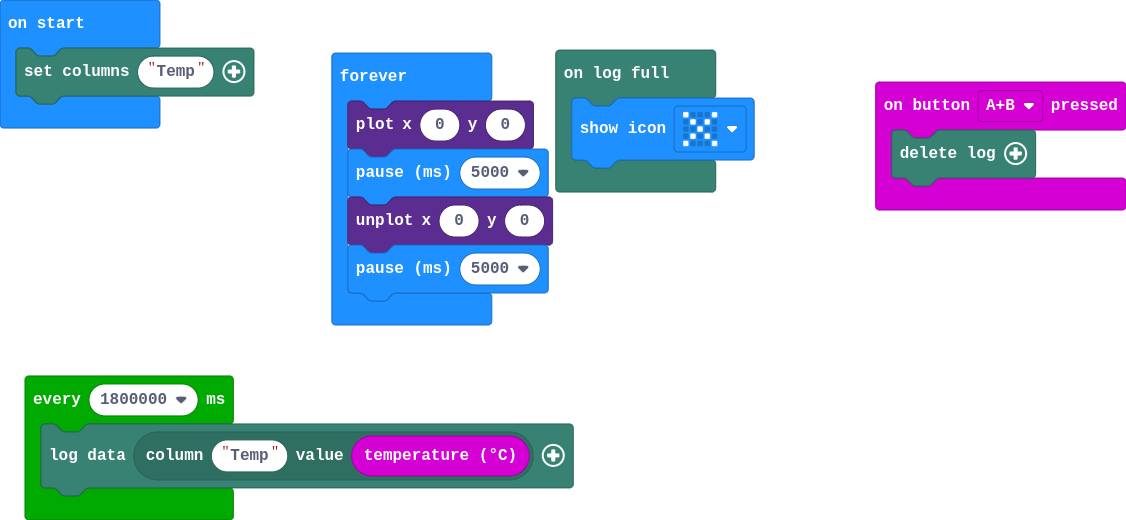
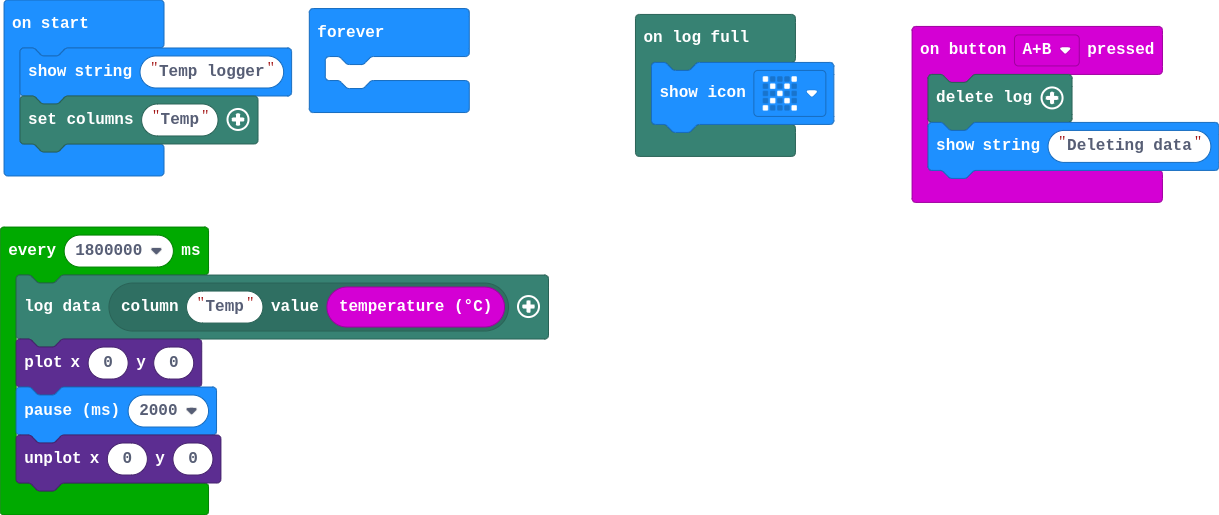
Update main.blocks, main.ts

diff --git a/main.ts b/main.ts
@@ -3,14 +3,16 @@ datalogger.onLogFull(function () {
 })
 input.onButtonPressed(Button.AB, function () {
     datalogger.deleteLog()
+    basic.showString("Deleting data")
 })
+basic.showString("Temp logger")
 datalogger.setColumnTitles("Temp")
 loops.everyInterval(1800000, function () {
     datalogger.log(datalogger.createCV("Temp", input.temperature()))
+    led.plot(0, 0)
+    basic.pause(2000)
+    led.unplot(0, 0)
 })
 basic.forever(function () {
-    led.plot(0, 0)
-    basic.pause(5000)
-    led.unplot(0, 0)
-    basic.pause(5000)
+	
 })
